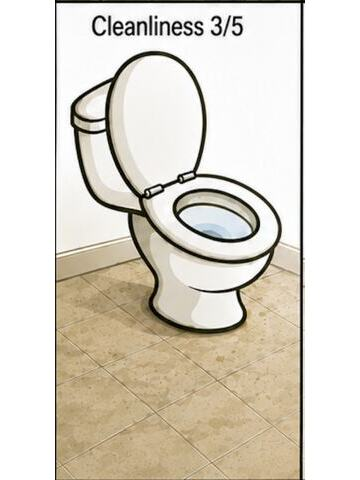
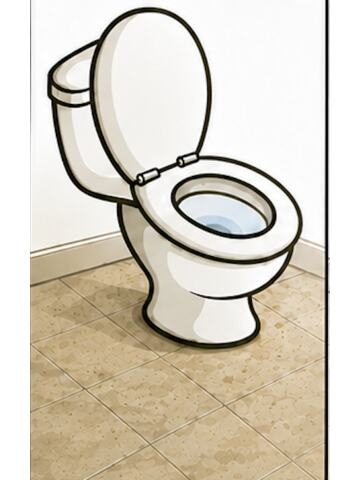
feat: replace toilet spot with toilet cartoon images

diff --git a/src/app/controllers/map-controller.js b/src/app/controllers/map-controller.js
@@ -137,7 +137,7 @@ export function createMapController(elements, onToiletSelected = () => {}, auth 
   let selectedRating = null;
   let feedbackSubmitAttemptedWithoutRating = false;
   let selectedCommentMedia = [];
-  let visualCleanlinessLevel = 3;
+  let visualCleanlinessLevel = 0;
   let currentDetailSection = "overview";
 
   const feedbackThreadController = createFeedbackThreadController(
@@ -185,12 +185,25 @@ export function createMapController(elements, onToiletSelected = () => {}, auth 
   }
 
   function normaliseVisualCleanlinessLevel(level) {
-    const value = Math.round(Number(level) * 2) / 2;
-    return visualCleanlinessLevels.has(value) ? value : 3;
+    const rawValue = Number(level);
+    if (rawValue === 0) return 0;
+
+    const value = Math.round(rawValue * 2) / 2;
+    return visualCleanlinessLevels.has(value) ? value : 0;
   }
 
   function getVisualCleanlinessLevel(level = visualCleanlinessLevel) {
     const value = normaliseVisualCleanlinessLevel(level);
+    if (value === 0) {
+      return {
+        value,
+        label: "No rating selected",
+        tone: "Choose a cleanliness rating",
+        image: "",
+        fixtureType: "toilet"
+      };
+    }
+
     const definition = visualCleanlinessLevels.get(value);
     return {
       value,
@@ -330,7 +343,7 @@ export function createMapController(elements, onToiletSelected = () => {}, auth 
       }
     }
 
-    setVisualCleanlinessLevel(hasRating ? rating : 3);
+    setVisualCleanlinessLevel(hasRating ? rating : 0);
   }
 
   function isPlaceholderToiletComment(comment = "") {
@@ -449,7 +462,7 @@ export function createMapController(elements, onToiletSelected = () => {}, auth 
   }
 
   function resetVisualCleanlinessRating() {
-    setVisualCleanlinessLevel(3);
+    setVisualCleanlinessLevel(0);
   }
 
   function setCommentMediaStatus(message = getCommentMediaStatus(selectedCommentMedia)) {
@@ -676,14 +689,14 @@ export function createMapController(elements, onToiletSelected = () => {}, auth 
 
   function createToiletIcon(toilet, selected = false) {
     const classes = ["map-marker"];
-    if (toilet.paid) classes.push("is-paid");
     if (selected) classes.push("is-selected");
+    const level = getVisualCleanlinessLevel(getCleanlinessVisualLevel(toilet));
 
     return window.L.divIcon({
       className: "map-marker-icon",
-      html: `<span class="${classes.join(" ")}" aria-hidden="true"></span>`,
-      iconSize: [30, 30],
-      iconAnchor: [15, 30]
+      html: `<span class="${classes.join(" ")}" aria-hidden="true"><img class="map-marker-image" src="${level.image}" alt="" loading="lazy" /></span>`,
+      iconSize: [44, 58],
+      iconAnchor: [22, 58]
     });
   }
 

diff --git a/src/html/comment-composer.html b/src/html/comment-composer.html
@@ -15,7 +15,7 @@
                     <p>Required for feedback. Match the picture to what you saw.</p>
                   </div>
                   <div class="feedback-visual-rating">
-                    <div class="visual-preview-card feedback-visual-preview" id="visual-cleanliness-preview" data-cleanliness="3" role="img" aria-label="Cartoon toilet cleanliness preview: OK">
+                    <div class="visual-preview-card feedback-visual-preview" id="visual-cleanliness-preview" data-cleanliness="0" role="img" aria-label="No cleanliness rating selected">
                       <img id="visual-cleanliness-image" class="visual-cleanliness-image is-hidden" src="" alt="Real toilet cleanliness preview" />
                       <svg class="cartoon-toilet-svg" viewBox="0 0 220 180" aria-hidden="true" focusable="false">
                         <rect class="toilet-room-floor" x="22" y="128" width="176" height="18" rx="9"></rect>
@@ -77,10 +77,10 @@
                         <span>Dirtier</span>
                         <span>Cleaner</span>
                       </div>
-                      <p class="visual-cleanliness-state" id="visual-cleanliness-state" aria-live="polite">OK</p>
+                      <p class="visual-cleanliness-state" id="visual-cleanliness-state" aria-live="polite">No rating selected - Choose a cleanliness rating</p>
                     </div>
                   </div>
-                  <p class="survey-status" id="map-survey-status" aria-live="polite">Choose 1 to 5 stars to continue.</p>
+                  <p class="survey-status" id="map-survey-status" aria-live="polite">Choose 0.5 to 5 stars to continue.</p>
                 </section>
                 <textarea id="comment-input" placeholder="Add details if useful..."></textarea>
                 <div class="comment-preset-tags" aria-label="Quick comment tags">

diff --git a/src/styles/map.css b/src/styles/map.css
@@ -40,29 +40,43 @@
 
 .map-marker {
   display: block;
-  width: 30px;
-  height: 30px;
-  transform: rotate(45deg);
-  border: 3px solid white;
-  border-radius: 50% 50% 50% 7px;
-  background: #2ecc71; /* Green for free */
+  position: relative;
+  width: 44px;
+  height: 54px;
+  border: 2px solid white;
+  border-radius: 9px;
+  background: white;
   box-shadow: 0 6px 18px rgb(31 42 51 / 28%);
+  overflow: visible;
 }
 
 .map-marker::after {
   content: "";
   position: absolute;
-  inset: 8px;
-  border-radius: 50%;
+  left: 50%;
+  bottom: -8px;
+  width: 14px;
+  height: 14px;
+  transform: translateX(-50%) rotate(45deg);
+  border-right: 2px solid white;
+  border-bottom: 2px solid white;
+  border-radius: 0 0 3px 0;
   background: white;
+  box-shadow: 4px 4px 10px rgb(31 42 51 / 18%);
+  z-index: -1;
 }
 
-.map-marker.is-paid {
-  background: #e74c3c; /* Red for paid */
+.map-marker-image {
+  display: block;
+  width: 100%;
+  height: 100%;
+  border-radius: 7px;
+  object-fit: contain;
 }
 
 .map-marker.is-selected {
-  box-shadow: 0 0 0 6px rgb(236 61 114 / 22%), 0 6px 18px rgb(31 42 51 / 28%);
+  border-color: var(--pink);
+  box-shadow: 0 0 0 5px rgb(236 61 114 / 22%), 0 6px 18px rgb(31 42 51 / 28%);
 }
 
 .map-legend {
@@ -95,18 +109,12 @@
   gap: 8px;
 }
 
-.legend-color {
-  width: 12px;
-  height: 12px;
-  border-radius: 50%;
-}
-
-.legend-color.free {
-  background: #2ecc71;
-}
-
-.legend-color.paid {
-  background: #e74c3c;
+.legend-rating-thumb {
+  width: 22px;
+  height: 30px;
+  border: 1px solid #d8dfd6;
+  border-radius: 5px;
+  object-fit: contain;
 }
 
 .map-user-marker {
@@ -398,4 +406,3 @@
   content: ">";
   float: right;
 }
-

diff --git a/src/app/app.js b/src/app/app.js
@@ -13,6 +13,7 @@ export function createApp() {
   let accountController = null;
   let tabController = null;
   let boundsFetchTimeoutId = null;
+  const mapCleanlinessRange = "3days";
   const toiletPlayground = createToiletPlayground(elements.feedbackSceneRoot);
 
   const mapController = createMapController(elements, (toilet) => toiletPlayground.setContext(toilet), {
@@ -24,7 +25,7 @@ export function createApp() {
       tabController?.setTab("account");
     },
     onCleanlinessSaved: () =>
-      initializeToilets("all", {
+      initializeToilets(mapCleanlinessRange, {
         force: true
       }),
     getFeedbackSceneSnapshot: () => toiletPlayground.getSubmissionSnapshot(),
@@ -36,7 +37,7 @@ export function createApp() {
 
       boundsFetchTimeoutId = window.setTimeout(() => {
         boundsFetchTimeoutId = null;
-        initializeToilets("all", {
+        initializeToilets(mapCleanlinessRange, {
           bounds,
           merge: true
         });
@@ -285,7 +286,7 @@ export function createApp() {
 
     // Fetch live data using current map bounds.
     await Promise.all([
-      initializeToilets("all", {
+      initializeToilets(mapCleanlinessRange, {
         force: true,
         merge: false
       }),

diff --git a/src/styles/cleanliness-feedback.css b/src/styles/cleanliness-feedback.css
@@ -300,6 +300,41 @@
   right: 0;
 }
 
+.visual-rating-step-buttons {
+  display: flex;
+  flex: 0 0 100%;
+  flex-wrap: wrap;
+  gap: 4px;
+  margin-top: 2px;
+}
+
+.visual-rating-step {
+  min-width: 32px;
+  height: 24px;
+  padding: 0 6px;
+  border: 1px solid #d8dfd6;
+  border-radius: 999px;
+  color: #142c72;
+  font-size: 10px;
+  font-weight: 800;
+  line-height: 1;
+  background: #fbfdf8;
+  cursor: pointer;
+}
+
+.visual-rating-step:hover,
+.visual-rating-step:focus-visible,
+.visual-rating-step.is-selected {
+  border-color: #d8aa38;
+  color: #1f2a33;
+  background: rgb(216 170 56 / 18%);
+}
+
+.visual-rating-step:focus-visible {
+  outline: 3px solid rgb(54 111 171 / 24%);
+  outline-offset: 2px;
+}
+
 .visual-scale-labels {
   display: flex;
   justify-content: space-between;
@@ -316,4 +351,3 @@
   font-weight: 800;
   line-height: 1.35;
 }
-

diff --git a/src/html/map-view.html b/src/html/map-view.html
@@ -2,12 +2,13 @@
             <div class="map-canvas" id="map" aria-label="Interactive map of nearby toilets"></div>
             <div class="map-legend" aria-hidden="true">
               <div class="legend-item">
-                <span class="legend-color free"></span>
-                <span>Free</span>
+                <span>3-day rating</span>
               </div>
               <div class="legend-item">
-                <span class="legend-color paid"></span>
-                <span>Paid</span>
+                <img class="legend-rating-thumb" src="toilet_levels/level_05_small.jpg" alt="" />
+                <span>Dirtier</span>
+                <img class="legend-rating-thumb" src="toilet_levels/level_5_small.jpg" alt="" />
+                <span>Cleaner</span>
               </div>
             </div>
 
